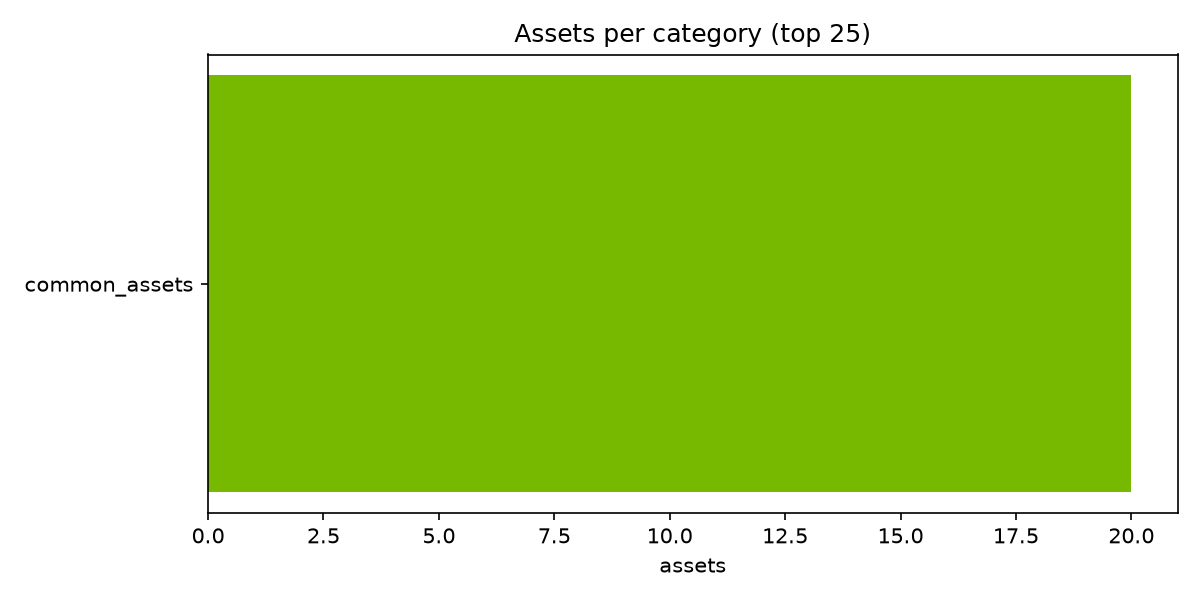
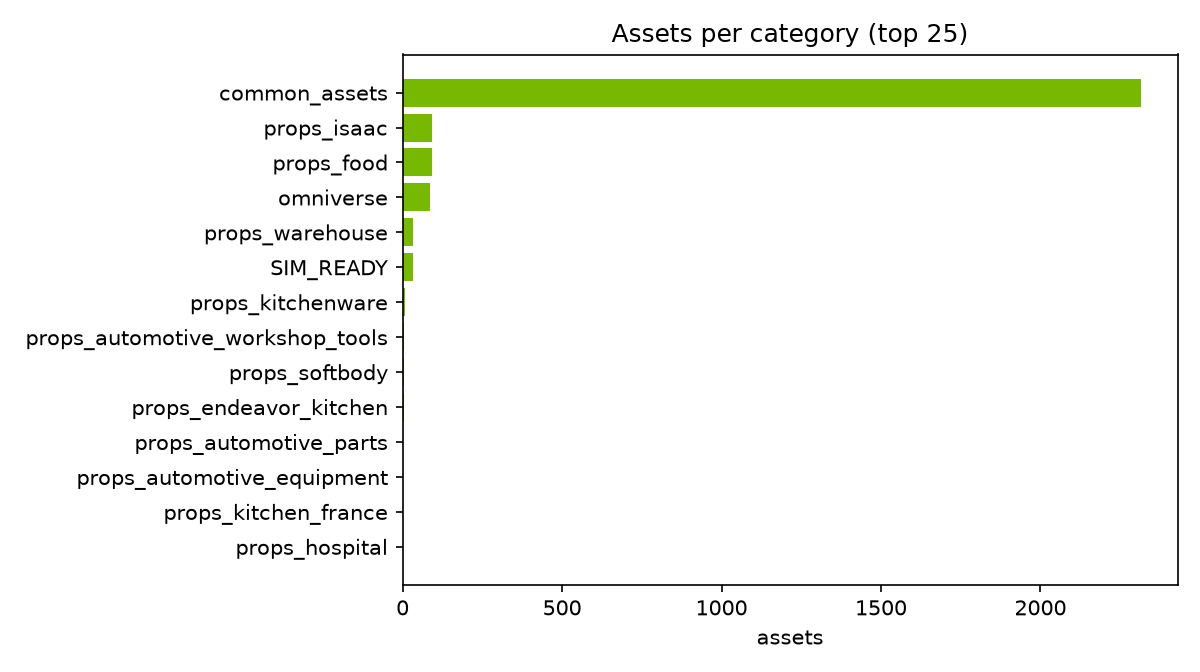
data: full-catalog dataset card and charts

diff --git a/card/README.md b/card/README.md
@@ -20,20 +20,20 @@ pretty_name: SimReady Assets (NVIDIA)
 > [!NOTE]
 > This card was produced by the community catalog project and offered to NVIDIA; numbers are computed programmatically from the repo tree and payload files on 2026-10-30. Verify against https://huggingface.co/datasets/nvidia/simready-assets for the latest state.
 
-NVIDIA's **SimReady Assets** are simulation-ready 3D models for robotics and Physical AI: every asset ships with tuned physics (mass, inertia, collision approximations), materials, and variants for **PhysX**, **MuJoCo**, and **Newton** physics engines. The dataset contains **20 assets** totaling **489.36 GB** under **CC-BY-4.0**.
+NVIDIA's **SimReady Assets** are simulation-ready 3D models for robotics and Physical AI: every asset ships with tuned physics (mass, inertia, collision approximations), materials, and variants for **PhysX**, **MuJoCo**, and **Newton** physics engines. The dataset contains **2,677 assets** totaling **489.68 GB** under **CC-BY-4.0**.
 
 ## Dataset at a glance
 
 |  |  |
 |---|---|
-| Assets | 20 |
-| Total size | 489.36 GB |
-| Files | 183,200 |
-| Categories | 1 |
-| Articulated assets | 0 (0.0%) |
-| PhysX variant | 20 |
-| MuJoCo variant | 20 |
-| Newton variant | 20 |
+| Assets | 2,677 |
+| Total size | 489.68 GB |
+| Files | 183,394 |
+| Categories | 14 |
+| Articulated assets | 5 (0.2%) |
+| PhysX variant | 2,669 |
+| MuJoCo variant | 2,669 |
+| Newton variant | 2,669 |
 | License | CC-BY-4.0 |
 | Data as of | 2026-10-30 |
 
@@ -71,7 +71,20 @@ Asset names follow `<category>_<type>_<variant>` (e.g. `food_produce_banana_m01`
 
 | Category (taxonomy group) | Assets |
 |---|---|
-| common_assets | 20 |
+| common_assets | 2,314 |
+| props_isaac | 92 |
+| props_food | 91 |
+| omniverse | 85 |
+| props_warehouse | 32 |
+| SIM_READY | 32 |
+| props_kitchenware | 6 |
+| props_automotive_workshop_tools | 5 |
+| props_softbody | 4 |
+| props_endeavor_kitchen | 3 |
+| props_automotive_parts | 2 |
+| props_automotive_equipment | 1 |
+| props_kitchen_france | 1 |
+| props_hospital | 1 |
 
 ![Assets per category](assets/categories.png)
 
@@ -81,12 +94,12 @@ Per-mesh physics properties (`physics:mass`, `physics:centerOfMass`, `physics:di
 
 | Mass (per-asset sum) | Value |
 |---|---|
-| Minimum | 0.175078 kg |
-| Median | 2.79144 kg |
-| Mean | 18.0471 kg |
-| Maximum | 183.045 kg |
+| Minimum | 0 kg |
+| Median | 0.916132 kg |
+| Mean | 1789.14 kg |
+| Maximum | 952461 kg |
 
-Collision approximations in use: `sdf` (193)
+Collision approximations in use: `convexDecomposition` (9), `sdf` (10,658)
 
 ![Mass distribution](assets/mass_hist.png)
 ![Download size](assets/sizes_hist.png)
@@ -95,31 +108,31 @@ Collision approximations in use: `sdf` (193)
 
 | Asset | Mass (kg) |
 |---|---|
-| Xray_machine_XrayArmRack_a01 | 183.045 |
-| Xray_machine_buckyTable_a01 | 36.9376 |
-| TV_a01 | 35.2989 |
-| CT_injection_system_a01 | 25.3864 |
-| Xray_machine_HVgenerator_a01 | 16.0634 |
-| Xray_machine_buckyStand_a01 | 13.0065 |
-| IV_pole_b01 | 12.5503 |
-| airSystem_compressor_a01 | 11.3487 |
-| IV_pole_b03 | 9.76659 |
-| airSystem_air_filter_box_c01 | 2.97001 |
+| modular_warehouse_h10m_corner_out_a01 | 952461 |
+| exhaustSystem_exhaust_manifold_f01 | 501226 |
+| modular_warehouse_h10m_straight_90_a04 | 404025 |
+| warehouse_h10m_straight_90_a04 | 400081 |
+| warehouse_h10m_straight_a04 | 399748 |
+| modular_warehouse_h10m_straight_a04 | 398601 |
+| modular_warehouse_h10m_center_a01 | 302944 |
+| set_office_main_a01 | 267161 |
+| structure_wall_corner_a01 | 217653 |
+| structure_wall_entrance_a01 | 192774 |
 
 ### Lightest assets
 
 | Asset | Mass (kg) |
 |---|---|
-| accessory_eyeglasses_a01 | 0.175078 |
-| airSystem_air_filter_a01 | 0.29873 |
-| airSystem_air_filter_c01 | 0.397438 |
-| airSystem_air_filter_box_a01 | 1.50709 |
-| IV_pole_a03 | 1.59252 |
-| IV_pole_a04 | 1.61199 |
-| IV_pole_a02 | 1.62116 |
-| airSystem_air_filter_box_d01 | 2.24451 |
-| IV_pole_b02 | 2.50808 |
-| IV_pole_a01 | 2.61286 |
+| blinds_window_2m_closed_a01 | 0 |
+| tape_safety_white_2m10cm_b01 | 0 |
+| hardware_bearing_caster_a01 | 0.000109254 |
+| factory_nut_m4_loose | 0.000267644 |
+| factory_nut_m4_tight | 0.000268642 |
+| hardware_screw_95_a01 | 0.000406182 |
+| hardware_screw_99_physics_a01 | 0.0005 |
+| factory_bolt_m04_loose | 0.00063011 |
+| screw_high_res | 0.000635557 |
+| factory_bolt_m04_tight | 0.000651707 |
 
 ## Physics engine variants
 
@@ -129,33 +142,45 @@ Each asset declares MuJoCo / Newton / PhysX physics variants in `base.usda` (`Va
 
 ## Validation (SimReady Foundation)
 
-Assets embed their own validation results (`SimReady_Metadata → validation`), produced by NVIDIA's [simready-foundation](https://github.com/NVIDIA/simready-foundation) tooling against the `Robotics-Prop` profile. Overall pass rate across parsed validation rows: **59.8%**.
+Assets embed their own validation results (`SimReady_Metadata → validation`), produced by NVIDIA's [simready-foundation](https://github.com/NVIDIA/simready-foundation) tooling against the `Robotics-Prop` profile. Overall pass rate across parsed validation rows: **55.6%**.
 
 | Feature | Pass rate | Passed / total |
 |---|---|---|
-| FET000_CORE | 100.0% | 27 / 27 |
-| FET001_BASE_NEUTRAL | 0.0% | 0 / 30 |
-| FET003_BASE_NEUTRAL | 100.0% | 30 / 30 |
-| FET003_BASE_PHYSX | 100.0% | 30 / 30 |
-| FET004_BASE_NEUTRAL | 73.3% | 22 / 30 |
-| FET004_BASE_PHYSX | 73.3% | 22 / 30 |
-| FET005_BASE_NEUTRAL | 30.0% | 9 / 30 |
-| FET006_BASE_MDL | 0.0% | 0 / 27 |
+| FET000_CORE | 91.8% | 3,187 / 3,471 |
+| FET001_BASE_NEUTRAL | 1.5% | 54 / 3,690 |
+| FET003_BASE_NEUTRAL | 99.9% | 3,684 / 3,689 |
+| FET003_BASE_PHYSX | 99.3% | 3,610 / 3,637 |
+| FET004_BASE_NEUTRAL | 42.6% | 1,571 / 3,690 |
+| FET004_BASE_PHYSX | 42.3% | 1,538 / 3,637 |
+| FET005_BASE_NEUTRAL | 65.4% | 2,412 / 3,690 |
+| FET006_BASE_MDL | 1.2% | 40 / 3,470 |
+| FET100_BASE_ISAACSIM | 0.0% | 0 / 1 |
 
 Most common failing requirements:
 
 | Failing requirement | Occurrences |
 |---|---|
-| AA.001 | 30 |
-| VM.MDL.001 | 27 |
-| GSP.001 | 21 |
-| RB.MB.001 | 16 |
+| RB.MB.001 | 3,973 |
+| AA.001 | 3,464 |
+| VM.MDL.001 | 3,417 |
+| GSP.001 | 1,190 |
+| NP.008 | 169 |
+| HI.009 | 83 |
+| COL.001 | 38 |
+| VM.MAT.001 | 25 |
+| RB.001 | 20 |
+| NP.005 | 9 |
+| VM.TEX.002 | 3 |
+| PMT.001 | 3 |
+| NP.006 | 2 |
+| JT.002 | 2 |
+| ISA.001 | 1 |
 
 ![Validation pass rates](assets/validation.png)
 
 ## Growth
 
-Packaging dates extracted from package IDs run 2026-10-08 → 2026-10-13:
+Packaging dates extracted from package IDs run 2026-10-08 → 2026-10-29:
 
 ![Growth](assets/growth.png)
 
